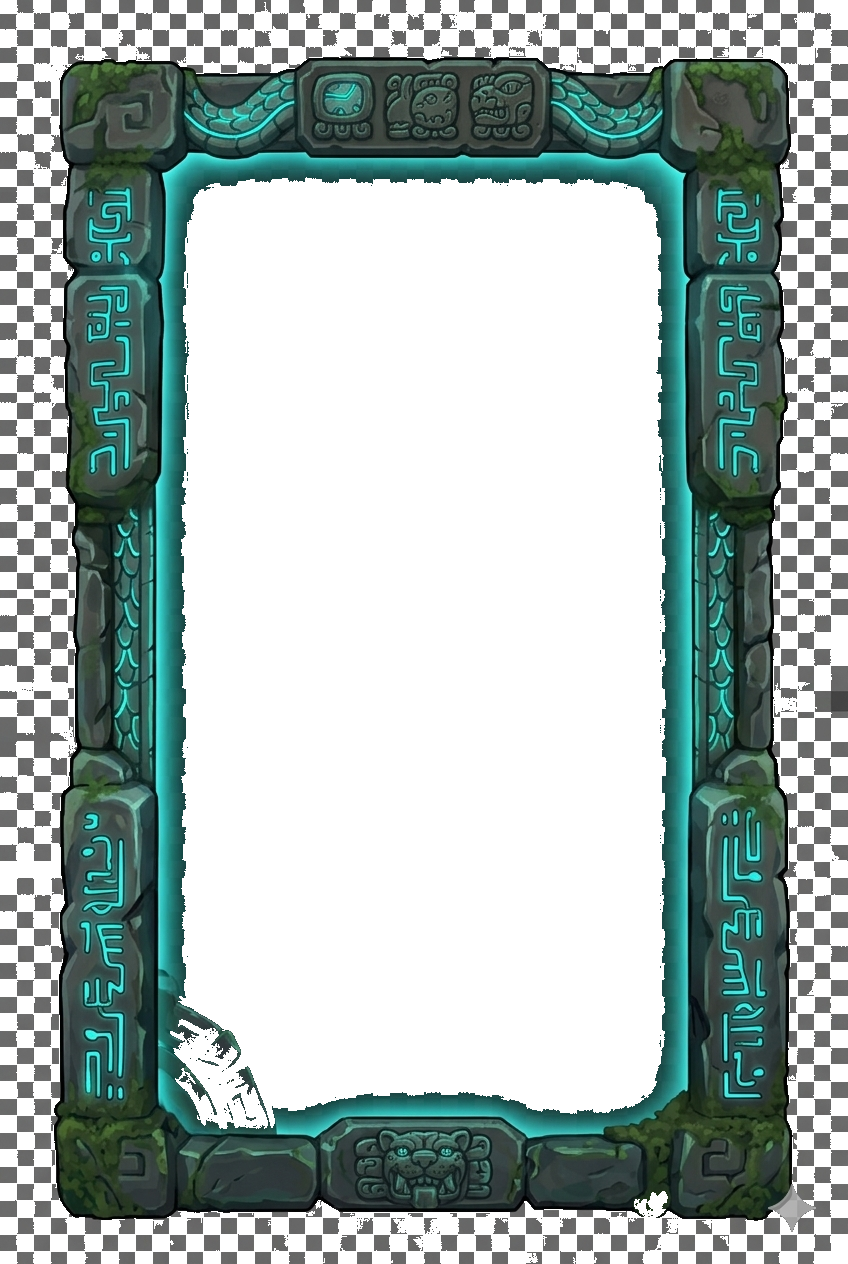
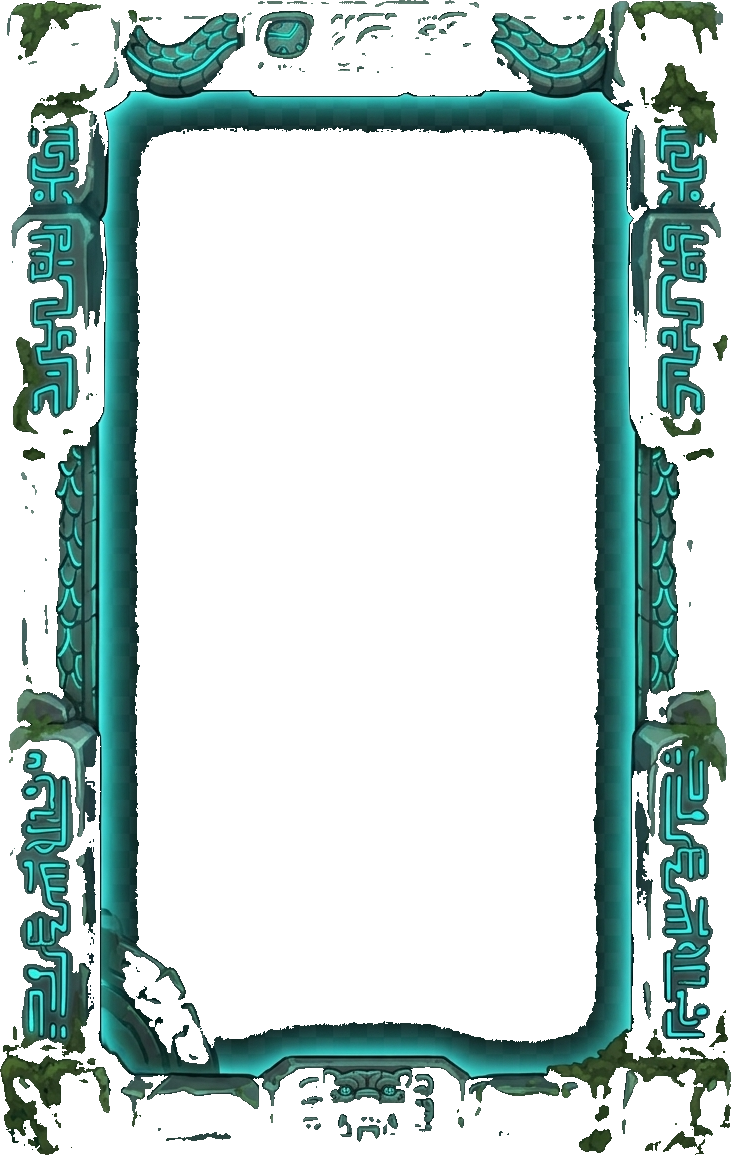
fix(ui): fully strip faction-frame checkerboard (dark squares + interior)
The frames' fake transparency was a TWO-shade neutral checkerboard plus a
near-black interior fill; the colour-distance flood-fill only cleared the
light squares, leaving a faint dark grid. Rewrote make_faction_frames.py to
mask all neutral-grey pixels (any brightness) and clear the connected
regions reaching the centre/edges or larger than a threshold — the coloured
borders (teal stone, bone, gold) aren't neutral so they survive. Frames are
now truly transparent inside and out.

diff --git a/tools/make_faction_frames.py b/tools/make_faction_frames.py
@@ -15,14 +15,20 @@ from __future__ import annotations
 from pathlib import Path
 
 import numpy as np
-from PIL import Image, ImageDraw
+from PIL import Image
+from scipy import ndimage
 
 ROOT = Path(__file__).resolve().parent.parent
 SRC = ROOT / "assets" / "ui" / "icons_src"
 OUT = ROOT / "assets" / "ui"
 NAMES = ["itzal", "decay", "ix"]
-SENT = (255, 0, 255)
-THRESH = 92
+# The dark interior (≈10,10,10) and the outer checkerboard are all neutral grey;
+# the ornate borders are coloured (teal stone, tan bone, amber gold). So: build a
+# neutral-grey mask (any brightness, both checkerboard shades), then clear the
+# connected grey regions that reach the centre/edges or are large — i.e. the
+# interior + outer margin — leaving the coloured border intact.
+NEUTRAL_TOL = 24
+BIG_AREA = 1500
 
 
 def main() -> None:
@@ -32,29 +38,35 @@ def main() -> None:
 			print("skip %s (missing %s)" % (name, src.name))
 			continue
 		im = Image.open(src).convert("RGBA")
-		im = im.crop(im.getbbox())  # drop the outer transparent margin
-		w, h = im.size
-		# Flood-fill the centre (and a few interior seeds) to a sentinel colour;
-		# the border's bright neon glow is far enough in colour to stop the fill.
-		rgb = im.convert("RGB")
-		# Interior seeds clear the centre; corner/edge seeds clear the outer
-		# checkerboard margin between the ornate art and the texture edge.
-		seeds = [(w // 2, h // 2), (w // 2, h // 3), (w // 2, 2 * h // 3),
-			(w // 3, h // 2), (2 * w // 3, h // 2),
-			(w // 2, int(h * 0.42)), (w // 2, int(h * 0.58)),
-			(1, 1), (w - 2, 1), (1, h - 2), (w - 2, h - 2),
-			(w // 2, 1), (w // 2, h - 2), (1, h // 2), (w - 2, h // 2)]
-		for s in seeds:
-			ImageDraw.floodfill(rgb, s, SENT, thresh=THRESH)
-		arr = np.array(im)
-		flat = np.array(rgb)
-		mask = (flat[:, :, 0] == 255) & (flat[:, :, 1] == 0) & (flat[:, :, 2] == 255)
-		arr[mask, 3] = 0
-		out = Image.fromarray(arr, "RGBA")
+		im = im.crop(im.getbbox())
+		arr = np.array(im).astype(np.int32)
+		r, g, b, al = arr[:, :, 0], arr[:, :, 1], arr[:, :, 2], arr[:, :, 3]
+		mx = np.maximum(np.maximum(r, g), b)
+		mn = np.minimum(np.minimum(r, g), b)
+		neutral = ((mx - mn) <= NEUTRAL_TOL) & (al > 12)
+
+		lbl, n = ndimage.label(neutral)
+		h, w = neutral.shape
+		seeds = [(0, 0), (0, w - 1), (h - 1, 0), (h - 1, w - 1), (h // 2, w // 2),
+			(0, w // 2), (h - 1, w // 2), (h // 2, 0), (h // 2, w - 1)]
+		drop: set = set()
+		for (y, x) in seeds:
+			if lbl[y, x] != 0:
+				drop.add(int(lbl[y, x]))
+		if n > 0:
+			sizes = ndimage.sum(np.ones_like(lbl), lbl, index=range(1, n + 1))
+			for i, s in enumerate(sizes, start=1):
+				if s > BIG_AREA:
+					drop.add(i)
+		clear = np.isin(lbl, list(drop)) if drop else np.zeros_like(neutral)
+
+		out_arr = np.array(im)
+		out_arr[clear, 3] = 0
+		out = Image.fromarray(out_arr, "RGBA")
 		out = out.crop(out.getbbox())
 		out.save(OUT / ("frame_%s.png" % name))
 		print("WROTE assets/ui/frame_%s.png  (%dx%d, cleared %d px)" % (
-			name, out.width, out.height, int(mask.sum())))
+			name, out.width, out.height, int(clear.sum())))
 
 
 if __name__ == "__main__":
